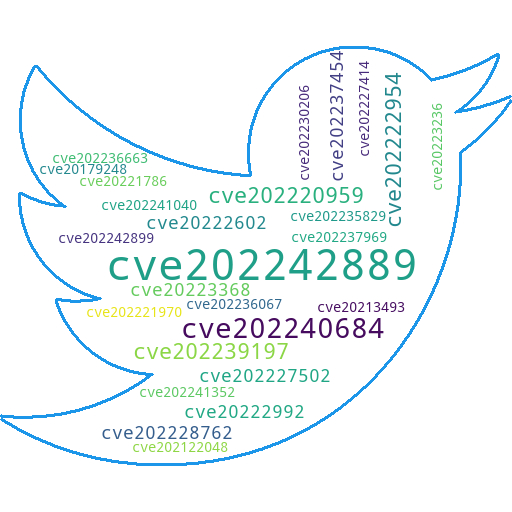
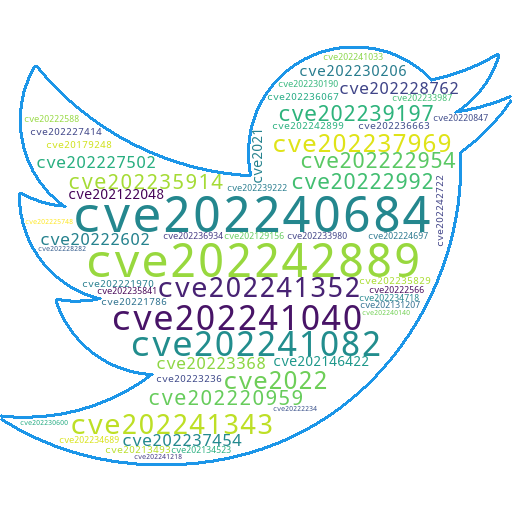
add date input

Changed region(s): [[0.0312, 0.0938, 0.9688, 0.9062]]

diff --git a/apps/trends.py b/apps/trends.py
@@ -27,12 +27,20 @@ dftw['cve'] = cve
 df = dftw[dftw.cve == 1]
 
 
-choice = st.selectbox('Make a selection', ['week', 'month', 'year', 'all'], key=1)
+# choice = st.selectbox('Make a selection', ['week', 'month', 'year', 'all'], key=1)
 
-kdays = {'week': 7, 'month': 30, 'year': 365, 'all': 365*4}
+# kdays = {'week': 7, 'month': 30, 'year': 365, 'all': 365*4}
 
-startday = (datetime.datetime.now() - datetime.timedelta(days=kdays[choice])).strftime('%Y-%m-%d')
-endday = (datetime.datetime.now()).strftime('%Y-%m-%d')
+# startday = (datetime.datetime.now() - datetime.timedelta(days=kdays[choice])).strftime('%Y-%m-%d')
+# endday = (datetime.datetime.now()).strftime('%Y-%m-%d')
+
+day = startday = (datetime.datetime.now() - datetime.timedelta(days=7)).strftime('%Y-%m-%d')
+start_date = st.date_input("Start Date", value=pd.to_datetime(day, format="%Y-%m-%d"), max_value=pd.to_datetime("today", format="%Y-%m-%d"))
+end_date = st.date_input("End Date", value=pd.to_datetime("today", format="%Y-%m-%d"), max_value=pd.to_datetime("today", format="%Y-%m-%d"), min_value=start_date)
+
+# convert the dates to string
+startday = start_date.strftime("%Y-%m-%d")
+endday = end_date.strftime("%Y-%m-%d")
 
 list_cve = get_cve_topk(df=df, startdate = startday, enddate = endday, k=8)
 ldf = []
